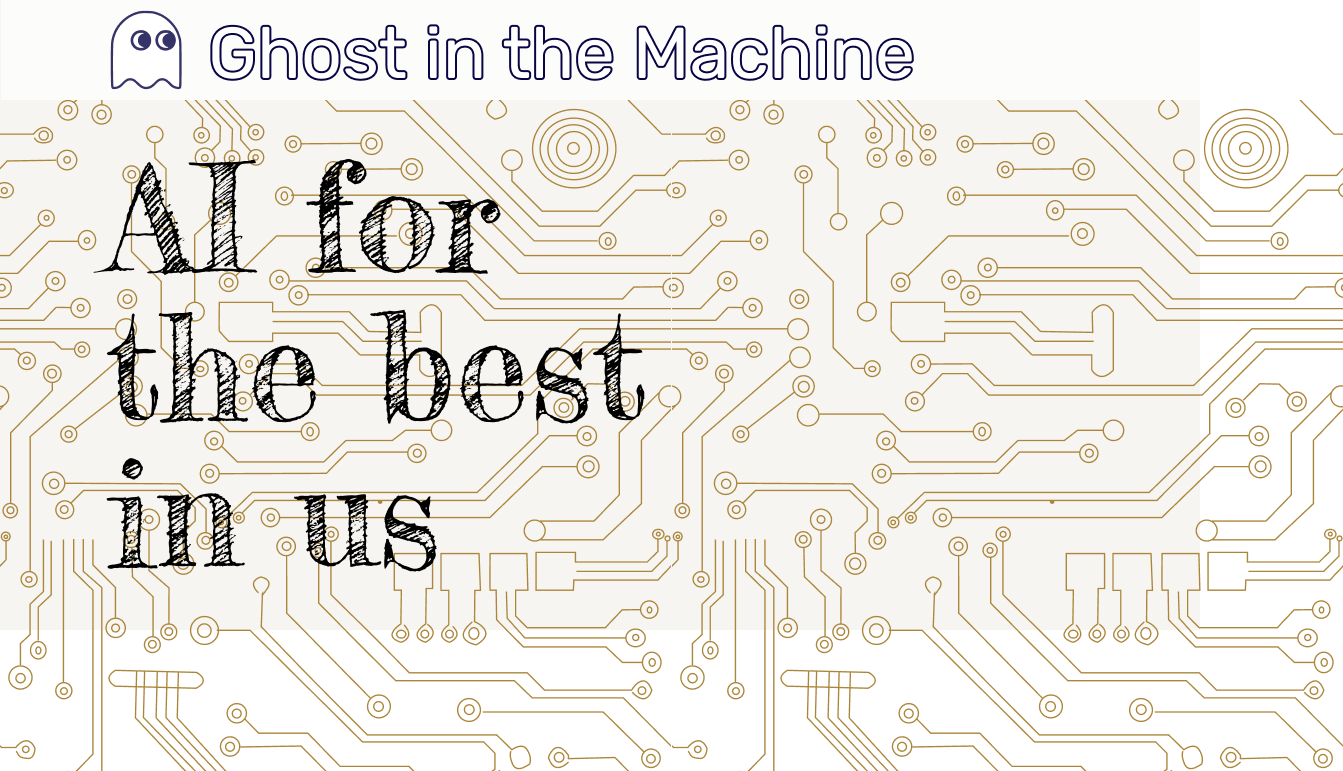
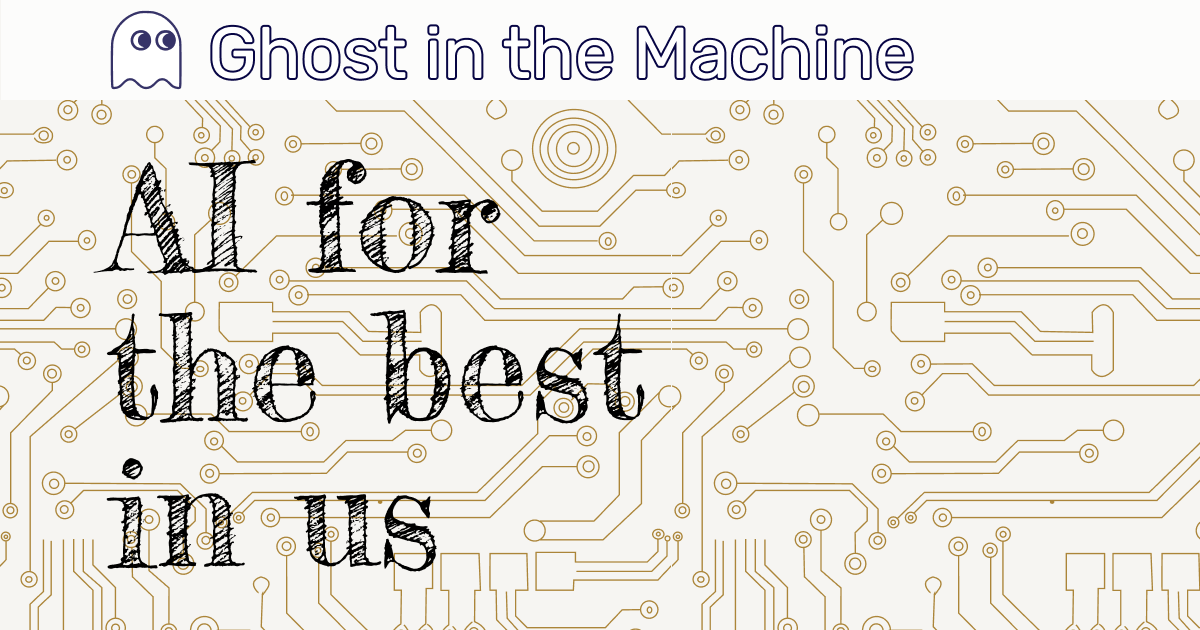
re-export og:image and include meta content url

Changed region(s): [[0.0, 0.0, 1.0, 1.0], [0.8017, 0.9952, 0.8325, 1.0]]

diff --git a/index.html b/index.html
@@ -13,7 +13,7 @@
     <meta property="og:description"
         content="Join us in this extraordinary adventure and become part of a revolution that redefines the essence of AI.">
 
-    <meta property="og:image" content="">
+    <meta property="og:image" content="https://ghostinthemachine.ai/assets/og_image.png">
     <meta property="og:image:alt" content="Ghost chillin in the machine">
     <meta property="og:url" content="http://euro-travel-example.com/index.htm">
     <meta name="twitter:image:alt" content="Ghost chillin in the machine">
@@ -22,6 +22,10 @@
 
     <meta name="description" content="Spiritually-infused AI weaving mythos and ancient wisdom 
         for personalized growth and collective evolution">
+
+    <!-- title and favicon -->
+    <title>Ghost in the Machine AI</title>
+    <link rel="icon" type="image/x-icon" href="/assets/ghost.svg" />
 
     <!-- Google tag (gtag.js) -->
     <script async src="https://www.googletagmanager.com/gtag/js?id=G-DC9EXM46X4"></script>
@@ -34,9 +38,6 @@
         gtag('config', 'G-DC9EXM46X4');
     </script>
 
-    <!-- title and favicon -->
-    <title>Ghost in the Machine AI</title>
-    <link rel="icon" type="image/x-icon" href="/assets/ghost.svg" />
 
     <!-- reset -->
     <link rel="stylesheet" href="/styles/reset.css" />
